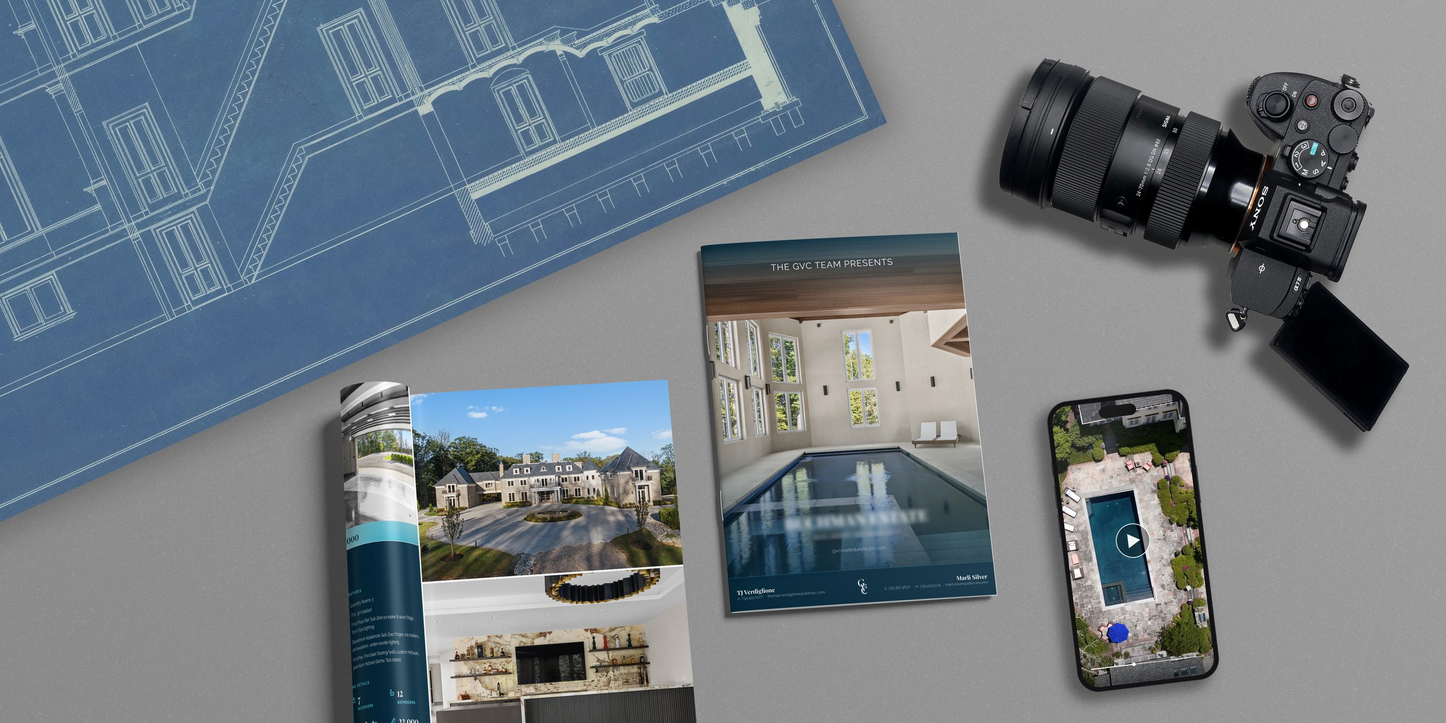
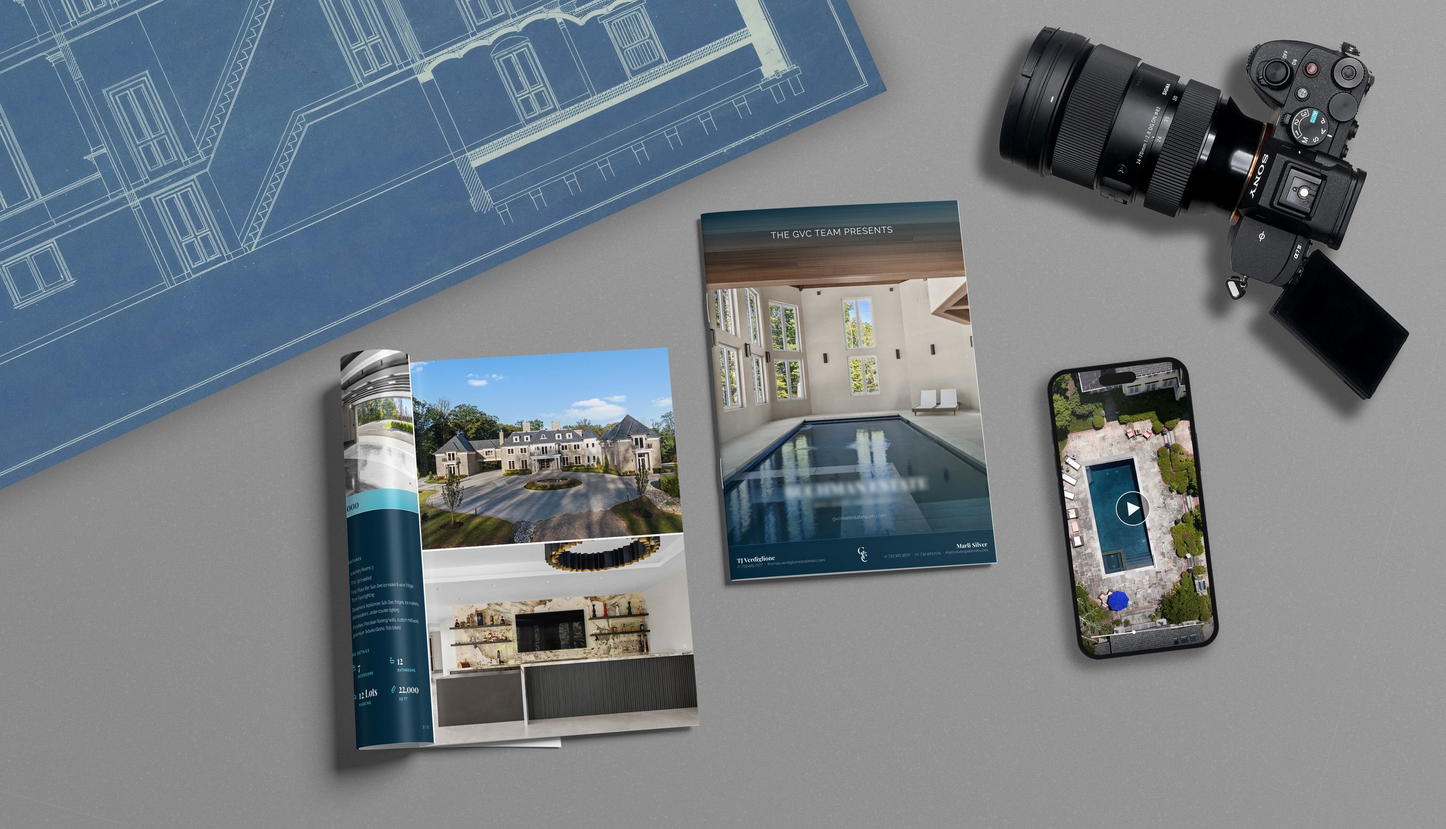
Seller pitch (NJ): Marketing mockup shows whole, and the in-house tile bar is gone
Matt's mockup is trimmed only of bare surface above and below (every object
and shadow kept), and its panel takes the image's own proportions so the
page can never crop it. The bar's space pays for the taller image; its now
unused NJ tile styles are removed. NYC is unchanged.

diff --git a/tools/seller-package/index.html b/tools/seller-package/index.html
@@ -93,20 +93,12 @@
   text-transform:uppercase;letter-spacing:.04em;color:rgba(255,255,255,.85);}
 .crew .cell.lab.n3 .nm,.crew .cell.lab.n4 .nm{color:var(--navy);}
 .crew .cell.lab.n3 .tt,.crew .cell.lab.n4 .tt{color:rgba(0,39,58,.75);}
-/* New Jersey: the same 2x2-of-colours row, one discipline per square, no people */
-.crew .cell.lab.inh{align-items:center;text-align:center;aspect-ratio:1/2;}
-.crew .cell.lab.inh .ci{width:.4in;height:.4in;margin-bottom:.12in;color:#fff;}
-.crew .cell.lab.n3.inh .ci,.crew .cell.lab.n4.inh .ci{color:var(--navy);}
-/* ...a full-width mockup of the team's work (a brochure it designed, with
-   one of its films playing on a phone), the four squares as a strip under it */
-.showcase{display:flex;flex-direction:column;flex:none;}
-.showcase .mock{height:3.625in;overflow:hidden;background:#929292;}  /* 7.25in wide: Matt's 2:1 crop */
-.showcase .mock img{width:100%;height:100%;object-fit:cover;display:block;}
-.showcase .crew{margin:0;}
-.showcase .crew .cell.lab.inh{aspect-ratio:auto;flex-direction:row;gap:.1in;padding:.15in .1in;}
-.showcase .crew .cell.lab.inh .ci{width:.24in;height:.24in;margin:0;}
-.showcase .crew .cell.lab.inh .nm{font-size:10pt;}
-.showcase .crew .cell.lab.inh .tt{display:none;}
+/* New Jersey's marketing page, led by a full-width mockup of the team's work (blueprint, brochure,
+   camera, a film on a phone). The panel takes the image's own proportions, so
+   none of it is ever cropped. */
+.showcase{flex:none;}
+.showcase .mock{aspect-ratio:2600 / 1491;overflow:hidden;background:#929292;}
+.showcase .mock img{width:100%;height:100%;object-fit:contain;display:block;}
 /* this page carries four sections, so its headings sit tighter than the
    other company pages' */
 .showcase ~ .dline.sm{margin:.14in 0 .1in;}
@@ -1156,14 +1148,9 @@ function pgStudio(n) {
    only that every part of the marketing is produced in-house. */
 function pgStudioNj(n) {
   const ico = name => (window.icon ? window.icon(name, 'ci') : '');
-  const work = [['camera', 'Photography', 'n1'], ['clapper', 'Video', 'n2'],
-                ['pen', 'Design', 'n3'], ['megaphone', 'Social Media', 'n4']];
   const body =
     '<div class="showcase">' +
       '<div class="mock"><img src="../../assets/img/nj/marketing-mockup.jpg" alt="A GVC listing brochure and its film playing on a phone"></div>' +
-      '<div class="crew">' + work.map(w =>
-        '<div class="cell lab inh ' + w[2] + '">' + ico(w[0]) + '<div class="nm">' + w[1] + '</div>' +
-        '<div class="tt">In-house</div></div>').join('') + '</div>' +
     '</div>' +
     '<div class="dline sm">Our Marketing <b>Advantage</b></div>' +
     '<div class="tri">' +
